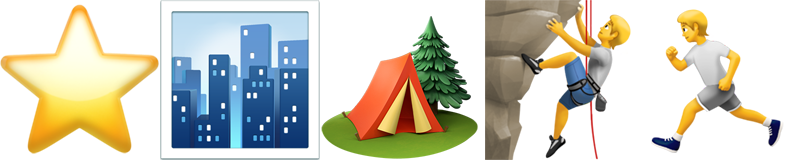
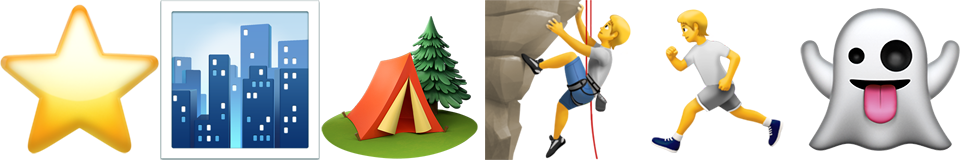
Use new dataset & add better labels

diff --git a/web/app.js b/web/app.js
@@ -9,7 +9,7 @@ import DeckGL from '@deck.gl/react';
 import "./style.css";
 
 // Source data CSV
-const DATA_URL = 'data_cleaned/wiki_voyage.csv';
+const DATA_URL = 'data_cleaned/combined_activities.csv';
 // const DATA_URL = 'data_cleaned/heatmap-data.csv';
 // const DATA_URL = 'https://raw.githubusercontent.com/visgl/deck.gl-data/master/examples/3d-heatmap/heatmap-data.csv'; // eslint-disable-line
 
@@ -17,7 +17,7 @@ const categories = [
   {
     id: "camping",
     emoji: "🏕",
-    label: "Camping"
+    label: "Camping!"
   },
   {
     id: "see",
@@ -45,6 +45,14 @@ const categories = [
     label: "City trips"
   }
 ]
+const labels = {}
+categories.map(cat => {
+  labels[cat.id] = cat.label
+})
+const emojis = {}
+categories.map(cat => {
+  emojis[cat.id] = cat.emoji
+})
 
 const ambientLight = new AmbientLight({
   color: [255, 255, 255],
@@ -87,7 +95,7 @@ export const colorRange = [
 const fallbackIcon = "see"
 const iconMapping = [
   {},
-  "see", "city", "camping", "climbing", "do"
+  "see", "city", "camping", "climbing", "do", "ao"
 ].reduce((map, value, index) => {
   map[value] = {
     x: (index - 1) * 160,
@@ -151,7 +159,7 @@ export default function App({
       })
       let output = `${agg_count} points.\n`
       Object.keys(cat_counts).map(function(key, index) {
-        output += `\n${key}: ${cat_counts[key]}`
+        output += `\n${emojis[key] || key}: ${cat_counts[key]}`
       })
       return output
     } else {
@@ -238,14 +246,43 @@ export default function App({
         <span>What are you interested in?</span>
 
         <div>
-          {
+          {/* {
             categories.map(cat => (
               <label key={`check-${cat.id}`}>
                 <input type="checkbox" name={cat.id} checked={state[cat.id]} onChange={handleInputChange}/>
                 <span> {`${cat.emoji} ${cat.label}`}</span>
               </label>
             ))
-          }
+}  */}
+            <label>
+              <input type="checkbox" name="camping" checked={state['camping']} onChange={handleInputChange}/>
+              <span> 🏕 Camping! </span>
+            </label>
+
+            <label>
+              <input type="checkbox" name="see" checked={state['see']} onChange={handleInputChange}/>
+              <span> ✨ Sightseeing </span>
+            </label>
+
+            <label>
+              <input type="checkbox" name="ao" checked={state['ao']} onChange={handleInputChange}/>
+              <span> 👻 Obscure Sightseeing </span>
+            </label>
+
+            <label>
+              <input type="checkbox" name="do" checked={state['do']} onChange={handleInputChange}/>
+              <span> 🏃 Activities </span>
+            </label>
+
+            <label>
+              <input type="checkbox" name="climbing" checked={state['climbing']} onChange={handleInputChange}/>
+              <span> 🧗 Climbing </span>
+            </label>
+
+            <label>
+              <input type="checkbox" name="city" checked={state['city']} onChange={handleInputChange}/>
+              <span> 🏙 City trips </span>
+            </label>
         </div>
       </div>
 
